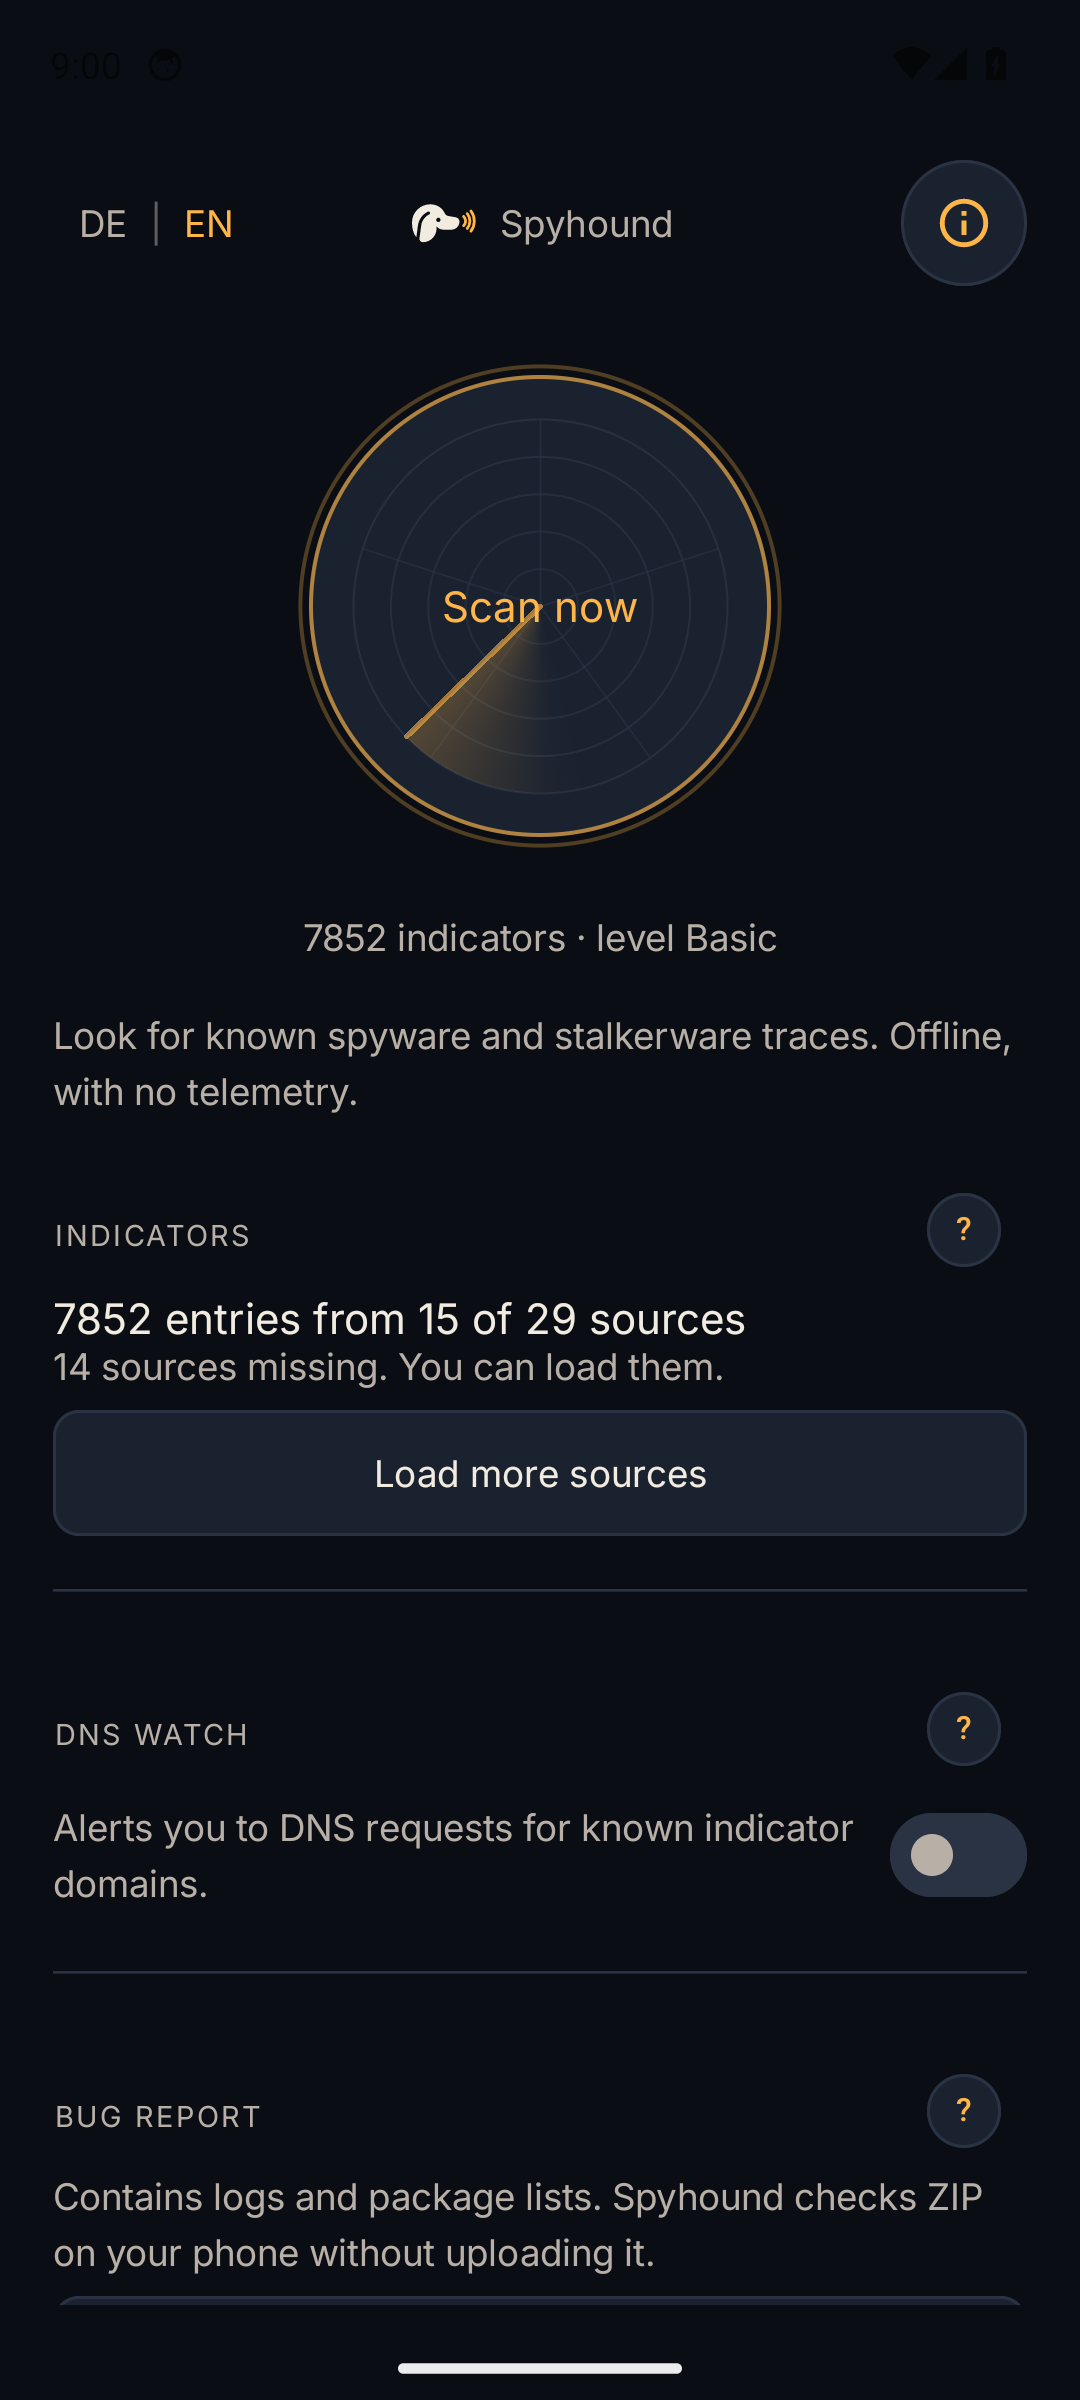
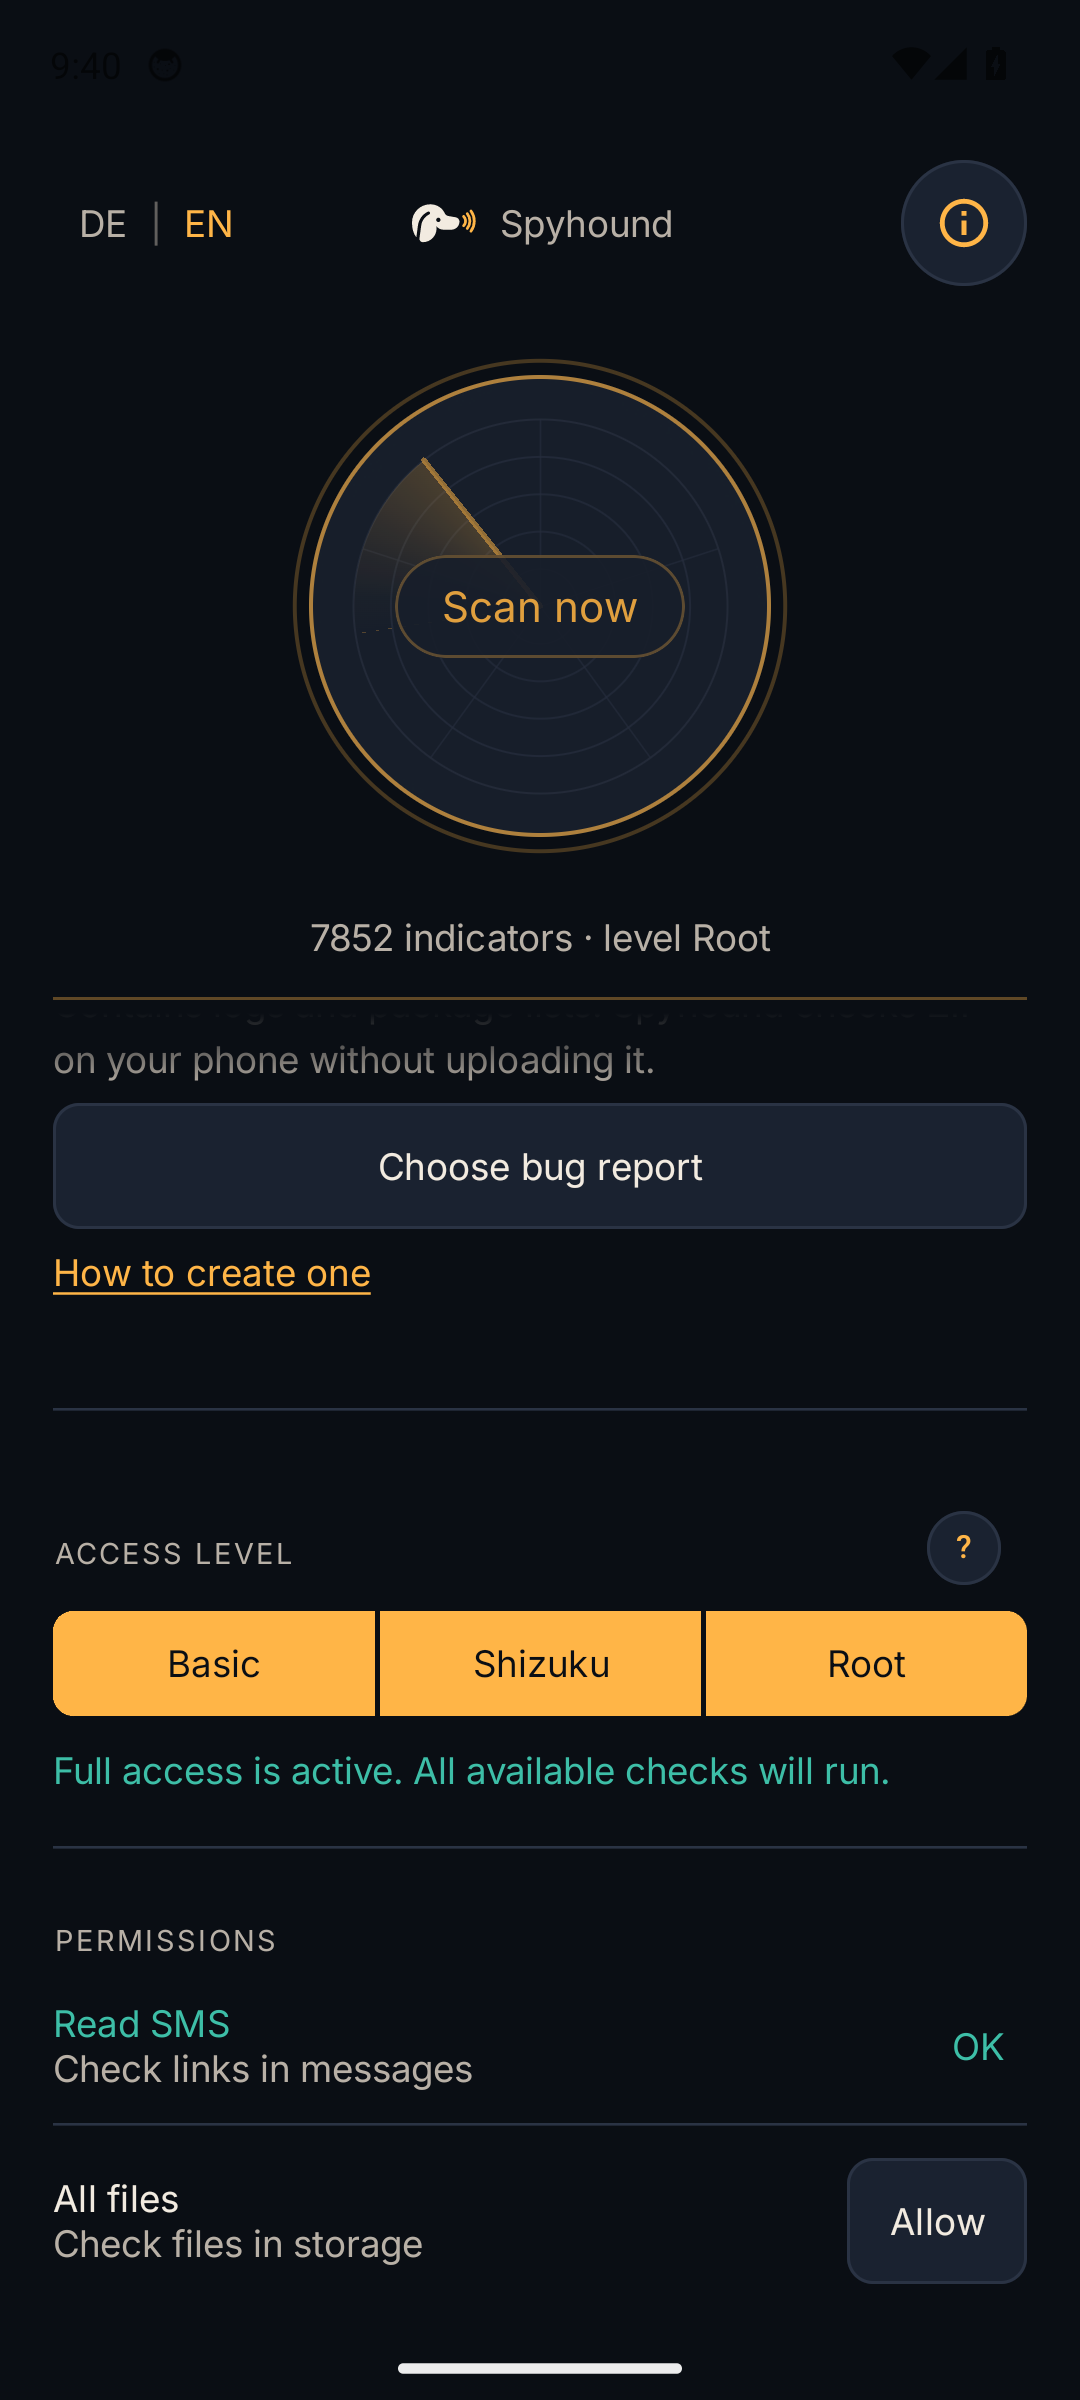
Test matrix: root scan with Magisk passes (Full root, Testspy found); Android 17 emulator instability documented

diff --git a/docs/TESTMATRIX.md b/docs/TESTMATRIX.md
@@ -11,9 +11,9 @@ Stand 2026-11-01. Belege: Screenshots unter `docs/shots/matrix/`, Gerätetests a
 | Emulator pixel_6 | 14 (34) | Debug | Basis | ✅ Testspy rot, 756 geprüft, 11 s | `api34-*.png` |
 | Emulator pixel_6 | 14 (34) | **Release (R8, signiert)** | Basis | ✅ läuft, keine Abstürze; 0 Funde korrekt (Test-Indikatoren nur im Debug-Build) | `api34-release-result.png` |
 | Emulator pixel_tablet | 16 (36) | Debug | Basis | ✅ Spalte zentriert ≤ 640 dp; Querformat wirkt leer → UI/UX-Roadmap | `api36-tablet-*.png` |
-| Emulator pixel_6 | 17 (37) | Debug | Basis | ⏳ mit `-gpu swiftshader_indirect` bootet das Image nicht (Dienst `window` fehlt, `screencap` stürzt in `GoldfishMapper::readFromHost` ab); mit `-gpu host` bootet es in 15 s | siehe unten |
+| Emulator pixel_6 | 17 (37) | Debug | Basis | ⚠ Emulator-Image auf pop-os instabil: `swiftshader_indirect` → Grafiktreiber-Absturz (`GoldfishMapper::readFromHost`); `-gpu host` → gfxstream-Fehler, Systemdienste (`activity`) fehlen. Kein App-Fehler. **Android 17 auf echtem Pixel 11 Pro XL belegt** (Basis + Shizuku). | – |
 | Emulator pixel_6 | 14 (34) | Debug | Shizuku | ❌ Verbindung im Emulator nicht hergestellt, Scan lief als Basis | `api34-shizuku-*.png` |
-| Emulator pixel_6 | 14 (34) | Debug | Root (Magisk v31.1 via rootAVD @613caa4) | ❌ Root nicht erreicht, Scan lief als Basis | `api34-root-*.png` |
+| Emulator pixel_6 | 14 (34) | Debug | Root (Magisk v31.1 via rootAVD @613caa4) | ✅ „Full (root)“, 22 s, 5.764 geprüft, Testspy rot. Hinweis: Magisk zeigte keinen Freigabe-Dialog (`su: request rejected`), Freigabe für den Test direkt als Magisk-Policy gesetzt (= „Grant“). Magisk-`su` liegt unter `/system_ext/bin/su` | `api34-root-*.png` |
 
 ## Fremd-Dateien (nur für Tests, nicht im Repo)
[1 lines of base64/hex data omitted]
@@ -21,5 +21,6 @@ Stand 2026-11-01. Belege: Screenshots unter `docs/shots/matrix/`, Gerätetests a
[1 lines of base64/hex data omitted]
 
 ## Offen
-- Shizuku und Root im Emulator: Ursache noch unklar (Freigabe-Dialoge/Startreihenfolge). Auf echtem Gerät ist Shizuku belegt.
+- Shizuku im Emulator: Verbindung nicht hergestellt (Ursache offen); auf echtem Gerät belegt.
+- Magisk-Freigabedialog erschien im Emulator nicht – auf echtem Root-Gerät prüfen.
 - Samsung One UI lässt sich nicht emulieren.
